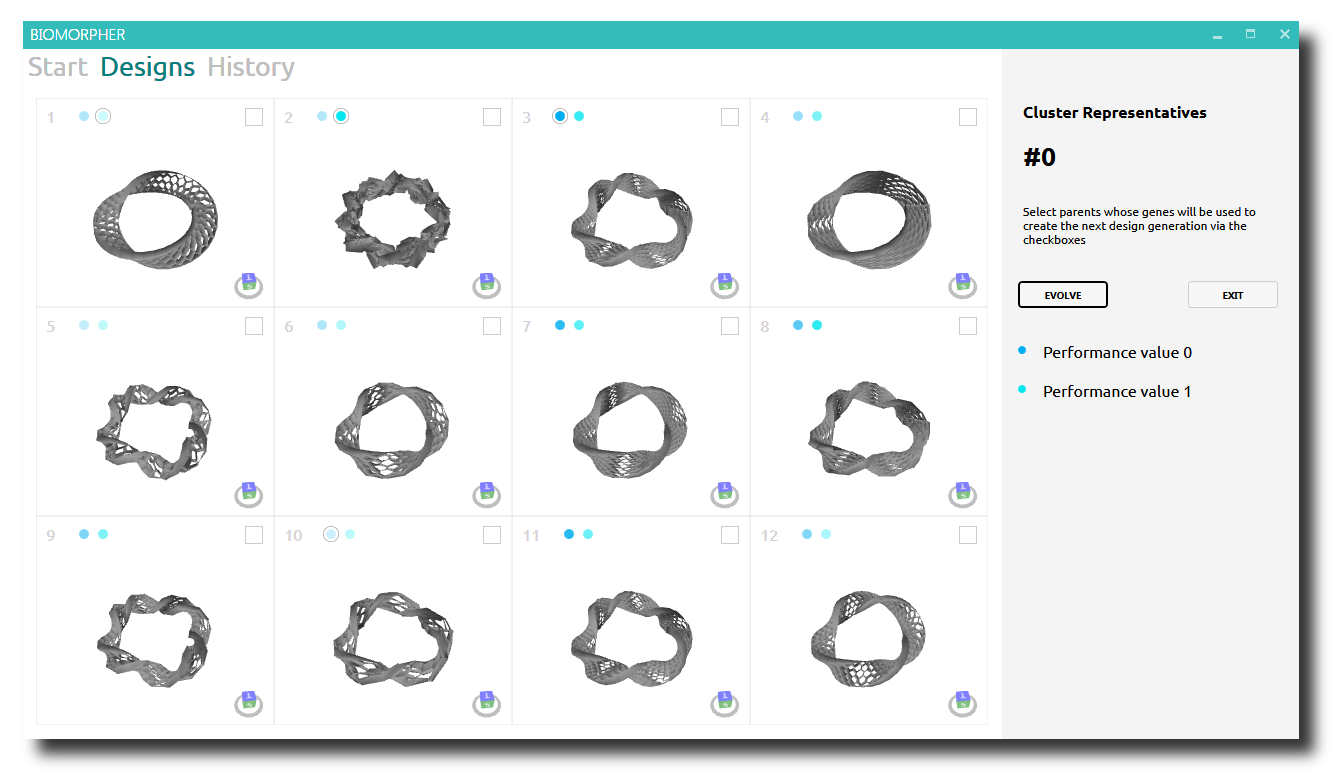
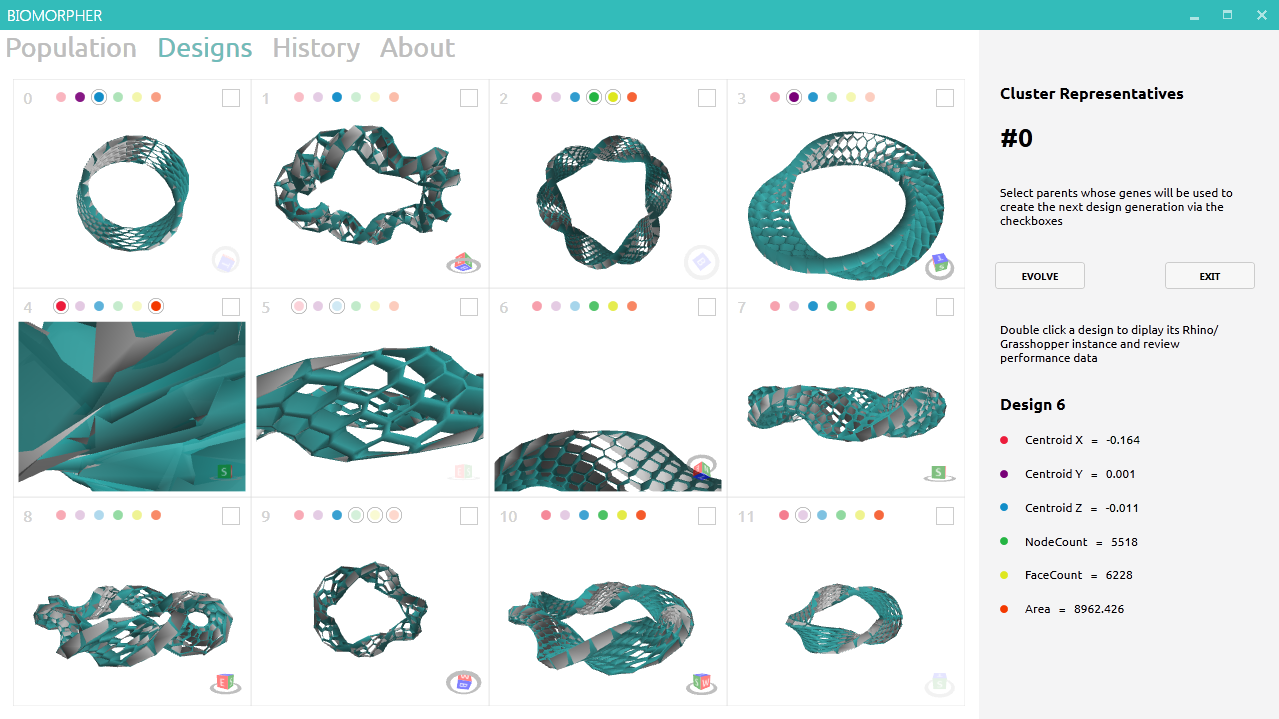
Added 'about' info. Updated mesh display

diff --git a/src/Biomorpher/BiomorpherWindow.xaml b/src/Biomorpher/BiomorpherWindow.xaml
@@ -46,6 +46,7 @@
                     <Border BorderThickness="0" Padding ="10" Width="Auto" Height="Auto" x:Name="Tab4_primary"/>
                 </DockPanel>
             </TabItem>
+            
 
         </TabControl>
 

diff --git a/src/Biomorpher/BiomorpherWindow.xaml.cs b/src/Biomorpher/BiomorpherWindow.xaml.cs
@@ -163,6 +163,9 @@ namespace Biomorpher
             
             //Initialise Tab 1 Start settings
             tab1_secondary_settings();
+
+            // Show info
+            Tab4_primary_permanent();
         }
 
 
@@ -235,7 +238,8 @@ namespace Biomorpher
 
             tab12_primary_permanent(2);
             tab2_primary_update();
-            tab2_secondary_settings(); 
+            tab2_secondary_settings();
+            
         }
 
 
@@ -422,7 +426,7 @@ namespace Biomorpher
             outline.StrokeThickness = 1;
             outline.Stroke = Brushes.SlateGray;
 
-            Canvas.SetLeft(outline, 0);
+            Canvas.SetLeft(outline, 40);
             Canvas.SetTop(outline, 0);
             canvas.Children.Add(outline);
 
@@ -474,14 +478,14 @@ namespace Biomorpher
                 System.Windows.Shapes.Line ln = new System.Windows.Shapes.Line();
                 ln.StrokeThickness = 1;
                 ln.Stroke = Brushes.SlateGray;
-                ln.X1 = width / 2.0;
+                ln.X1 = width / 2.0 + 40;
                 ln.Y1 = width / 2.0;
-                ln.X2 = (width / 2.0) + xCoord;
+                ln.X2 = (width / 2.0) + xCoord + 40;
                 ln.Y2 = (width / 2.0) + yCoord;
                 canvas.Children.Add(ln);
 
                 //drawing order
-                Canvas.SetLeft(circle, (width / 2.0) + xCoord - (diameter / 2.0));
+                Canvas.SetLeft(circle, (width / 2.0) + xCoord - (diameter / 2.0) + 40);
                 Canvas.SetTop(circle, (width / 2.0) + yCoord - (diameter / 2.0));
                 canvas.Children.Add(circle);
             }
@@ -493,7 +497,7 @@ namespace Biomorpher
             circle2.Fill = Brushes.White; //colour
             circle2.Stroke = Brushes.SlateGray;
             circle2.StrokeThickness = 1;
-            Canvas.SetLeft(circle2, (width / 2.0) - (diameter / 2.0));
+            Canvas.SetLeft(circle2, (width / 2.0) - (diameter / 2.0) + 40);
             Canvas.SetTop(circle2, (width / 2.0) - (diameter / 2.0));
             canvas.Children.Add(circle2);
 
@@ -884,7 +888,23 @@ namespace Biomorpher
             sp.Children.Add(border_buttons);
 
 
-            // Display the highlighted design
+            // Doubleclick description
+            Border border_dcl = new Border();
+            border_dcl.Margin = new Thickness(margin_w, margin_h + 5, margin_w, 0);
+
+            TextBlock txt_dcl = new TextBlock();
+            txt_dcl.TextWrapping = TextWrapping.Wrap;
+            txt_dcl.FontSize = fontsize2;
+            txt_dcl.Inlines.Add("\nDouble click a design to diplay its Rhino/Grasshopper instance and review performance data");
+
+            Label label_dcl = new Label();
+            label_dcl.Content = txt_dcl;
+
+            border_dcl.Child = label_dcl;
+            sp.Children.Add(border_dcl);
+
+
+            // Display the highlighted design (made elsewhere)
             Border border_cluster = new Border();
             controls.Add("CLUSTER", border_cluster);
             sp.Children.Add(border_cluster);
@@ -954,9 +974,9 @@ namespace Biomorpher
         private void tab2_updatePerforms()
         {
 
-            //Generation info
+            //Design info
             Border border_clus = (Border) controls["CLUSTER"];
-            border_clus.Margin = new Thickness(margin_w, margin_h + 30, margin_w, 0);
+            border_clus.Margin = new Thickness(margin_w, margin_h + 10, margin_w, 0);
             
             Label label_gen = new Label();
             label_gen.Content = "Design " + HighlightedCluster;
@@ -1012,7 +1032,72 @@ namespace Biomorpher
 
 
 
+        //-------------------------------------------------------------------------------TAB 4: ABOUT------------------------------------------------------------------------//
+        //HERE GOES THE CODE FOR TAB 4
 
+        void Tab4_primary_permanent()
+        {
+            StackPanel sp = new StackPanel();
+            Border border_dcl = new Border();
+            border_dcl.Margin = new Thickness(10, 10, 40, 20);
+            sp.Children.Add(border_dcl);
+            
+            //TextBox fish = new TextBox();
+            //fish.Text = "Sauce";
+
+            BitmapImage b = new BitmapImage();
+            b.BeginInit();
+            b.UriSource = new Uri(@"Images\BioIcon2_240.png", UriKind.Relative);
+            b.EndInit();
+
+            Image myImage = new Image();
+            myImage.Source = b;
+            myImage.Width = 100;
+            myImage.Height = 100;
+            sp.Children.Add(myImage);
+
+            TextBlock txt_dcl = new TextBlock();
+            txt_dcl.HorizontalAlignment = System.Windows.HorizontalAlignment.Center;
+            txt_dcl.FontSize = 24;
+            txt_dcl.Inlines.Add("\nBiomorpher  (v"+Friends.VerionInfo()+")");
+            sp.Children.Add(txt_dcl);
+
+            Border border_dcl2 = new Border();
+            border_dcl2.Margin = new Thickness(10, 10, 16, 20);
+            sp.Children.Add(border_dcl2);
+
+            TextBlock txt_dcl2 = new TextBlock();
+            txt_dcl2.TextWrapping = TextWrapping.Wrap;
+            txt_dcl2.FontSize = 14;
+            txt_dcl2.Inlines.Add("\nInteractive Evolutionary Algorithms (IEAs) allow designers to engage with the process of evolutionary development. This gives rise to an involved experience, helping to explore the wide combinatorial space of parametric models without always knowing where you are headed.");
+            txt_dcl2.Inlines.Add("\n\nThis work is sponsored by the 2016/17 UWE VC Early Career Researcher Development Award and was initially inspired by Richard Dawkins' Biomorphs from his 1986 book, The Blind Watchmaker: Why the Evidence of Evolution Reveals a Universe without Design.");
+            txt_dcl2.Inlines.Add("\n\n\nDevelopment:\tJohn Harding & Cecilie Brandt Olsen");
+            txt_dcl2.Inlines.Add("\nCopyright:\t2017 John Harding & UWE");
+            txt_dcl2.Inlines.Add("\nContact:\t\tjohnharding@fastmail.fm");
+            txt_dcl2.Inlines.Add("\nLicence:\t\tMIT");
+            txt_dcl2.Inlines.Add("\nSource:\t\t http://github.com/johnharding/Biomorpher");
+            txt_dcl2.Inlines.Add("\nGHgroup:\tn/a");
+            txt_dcl2.Inlines.Add("\n\nDependencies:\tHelixToolkit: https://github.com/helix-toolkit");
+            txt_dcl2.Inlines.Add("\n\t\tMahapps.metro: http://mahapps.com/");
+            sp.Children.Add(txt_dcl2);
+
+            Tab4_primary.Child = sp;
+        }
+        /*
+
+        Biomorpher
+
+        
+        
+
+        Dependencies
+
+        HelixToolkit: https://github.com/helix-toolkit
+        Mahapps.metro: http://mahapps.com/
+  
+        Licence: MIT
+         
+        */
 
 
 

diff --git a/src/Biomorpher/IGA/Friends.cs b/src/Biomorpher/IGA/Friends.cs
@@ -11,6 +11,17 @@ namespace Biomorpher.IGA
     /// </summary>
     public static class Friends
     {
+
+        /// <summary>
+        /// Biomorpher version
+        /// </summary>
+        /// <returns></returns>
+        public static string VerionInfo()
+        {
+            return "0.1.0";
+        }
+
+
         //Function to get random number
         private static readonly Random getrandom = new Random(21);
         private static readonly object syncLock = new object();
@@ -40,6 +51,9 @@ namespace Biomorpher.IGA
                 return getrandom.NextDouble();
             }
         }
+
+
+
     }
 
 }

diff --git a/src/Biomorpher/Viewport3d.xaml.cs b/src/Biomorpher/Viewport3d.xaml.cs
@@ -83,7 +83,9 @@ namespace Biomorpher
             //Create material and add geometry to viewport
             var brush = new SolidColorBrush(Color.FromArgb(220, (byte)51, (byte)188, (byte)188));
             DiffuseMaterial material = new DiffuseMaterial(brush);
+            DiffuseMaterial backmaterial = new DiffuseMaterial(Brushes.LightGray);
             GeometryModel3D model = new GeometryModel3D(mesh_w, material);
+            model.BackMaterial = backmaterial;
             ModelVisual3D vis = new ModelVisual3D();
             vis.Content = model;
 

diff --git a/src/Biomorpher/BiomorpherInfo.cs b/src/Biomorpher/BiomorpherInfo.cs
@@ -3,6 +3,7 @@ using System.Collections.Generic;
 using System.Linq;
 using System.Text;
 using System.Threading.Tasks;
+using Biomorpher.IGA;
 
 namespace Biomorpher
 {
@@ -22,7 +23,7 @@ namespace Biomorpher
         }
         public override string Version
         {
-            get { return "0.0.1"; }
+            get { return Friends.VerionInfo(); }
         }
         public override Guid Id
         {
